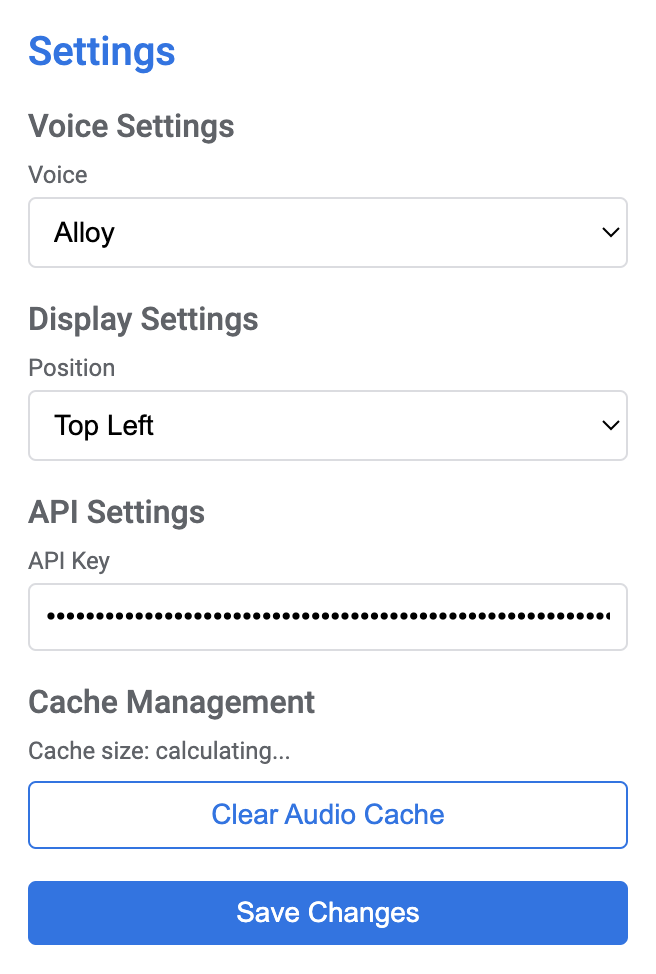
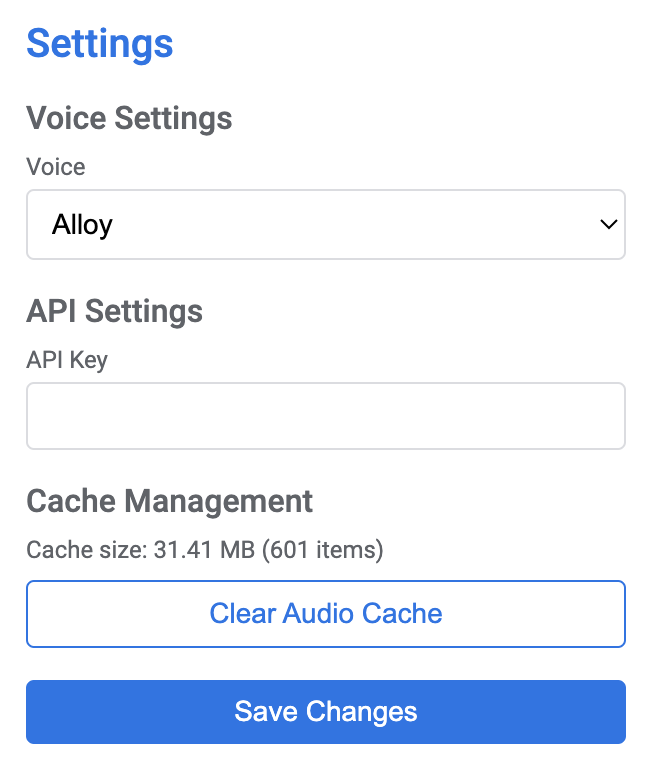
fix

diff --git a/popup.html b/popup.html
@@ -25,19 +25,6 @@
         </div>
 
         <div class="section">
-            <h2>Display Settings</h2>
-            <div class="input-field">
-                <label for="position">Position</label>
-                <select id="position" class="material-select">
-                    <option value="top-left">Top Left</option>
-                    <option value="top-right">Top Right</option>
-                    <option value="bottom-left">Bottom Left</option>
-                    <option value="bottom-right">Bottom Right</option>
-                </select>
-            </div>
-        </div>
-
-        <div class="section">
             <h2>API Settings</h2>
             <div class="input-field">
                 <label for="apiKey">API Key</label>

diff --git a/popup.js b/popup.js
@@ -13,12 +13,10 @@ document.addEventListener('DOMContentLoaded', function() {
     // Save settings
     document.getElementById('save').addEventListener('click', function() {
         const voice = document.getElementById('voice').value;
-        const position = document.getElementById('position').value;
         const apiKey = document.getElementById('apiKey').value;
 
         chrome.storage.sync.set({
             voice: voice,
-            position: position,
             apiKey: apiKey
         }, function() {
             // Show save confirmation
